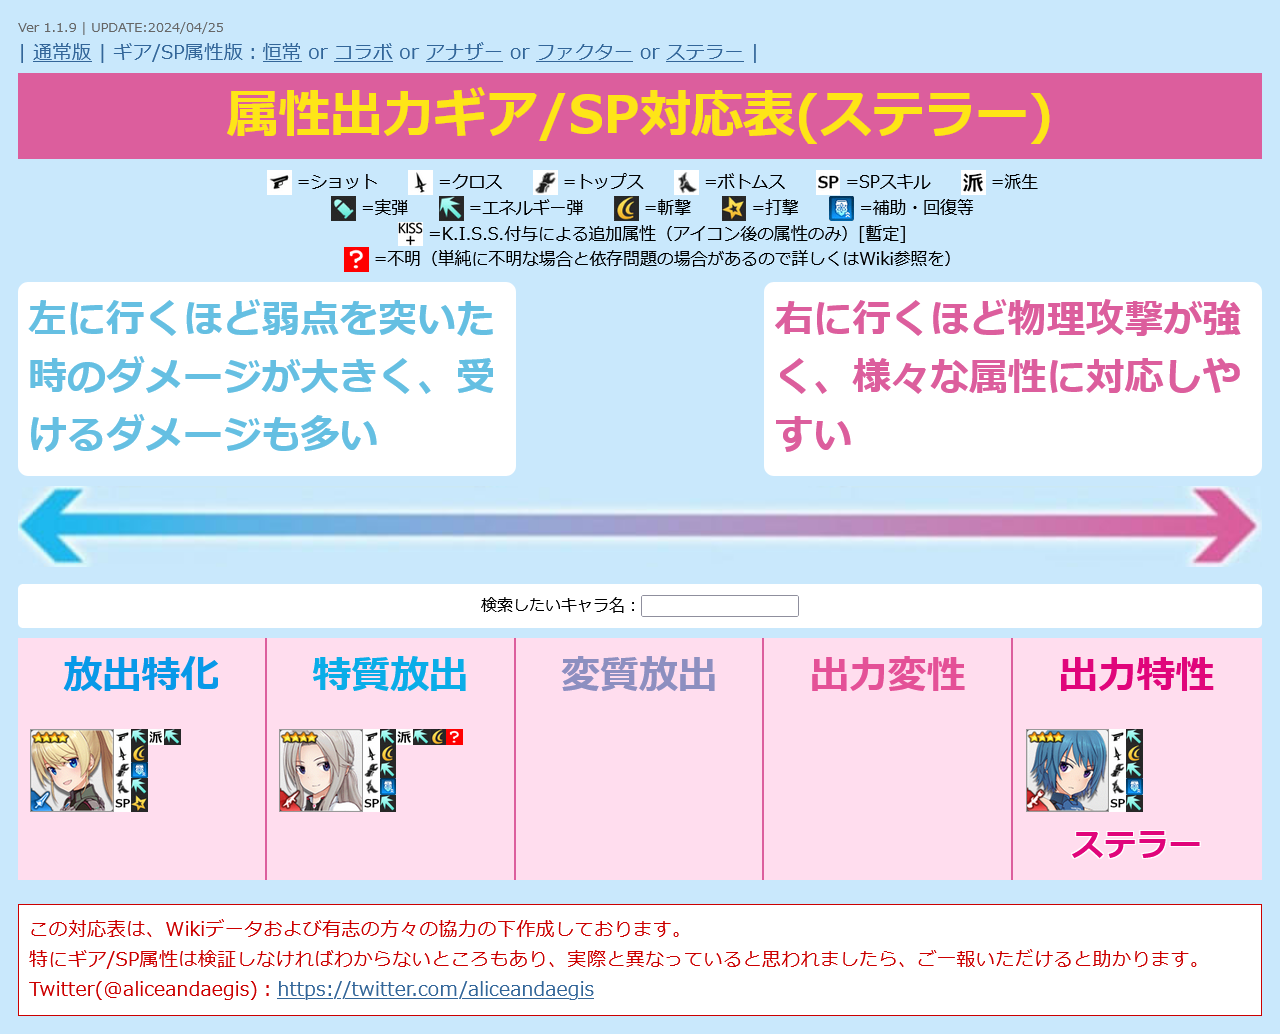
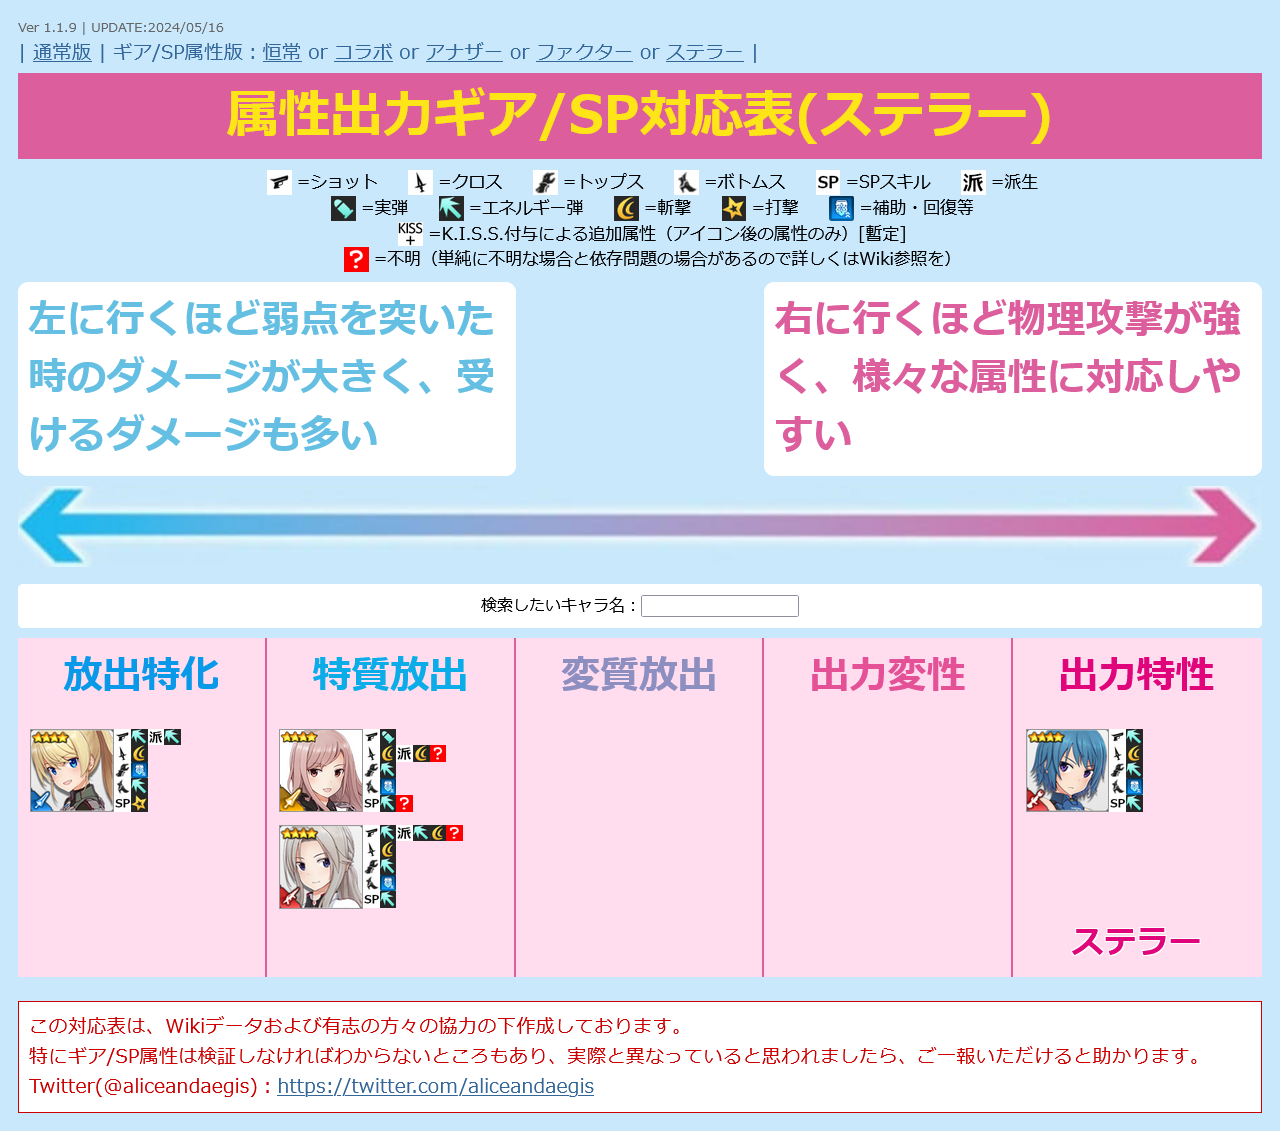
UPDATE charadata
・ステラー 四谷 ゆみ / ムーンを追加

diff --git a/alice.html b/alice.html
@@ -12,7 +12,7 @@
   <script>
 
 /* 更新情報 必要に応じて書き換えてください */
-  var version = "Ver 1.1.9 | UPDATE:2024/04/25";
+  var version = "Ver 1.1.9 | UPDATE:2024/05/16";
 
 
 /*
@@ -428,6 +428,20 @@
       "attr": "2",
       "link": "https://wikiwiki.jp/alicegear/%E5%9B%9B%E8%B0%B7%E3%82%86%E3%81%BF%E7%B5%A2%E7%88%9B",
       "category": "10"
+    },
+    {
+      "id": "9",
+      "type": "2",
+      "src": "stellar-yumi.png",
+      "name": "四谷 ゆみ / ムーン",
+      "equip1": "1",
+      "equip2": "3/3?",
+      "equip3": "2",
+      "equip4": "5",
+      "sp": "2?",
+      "attr": "1",
+      "link": "https://wikiwiki.jp/alicegear/%E5%9B%9B%E8%B0%B7%E3%82%86%E3%81%BF/%E3%83%A0%E3%83%BC%E3%83%B3",
+      "category": "12"
     },
     {
       "id": "10",
@@ -2778,9 +2792,9 @@
       "name": "C.C.",
       "equip1": "1",
       "equip2": "3",
-      "equip3": "25?",
-      "equip4": "?",
-      "sp": "2?",
+      "equip3": "25",
+      "equip4": "5",
+      "sp": "2",
       "attr": "2",
       "link": "https://wikiwiki.jp/alicegear/C.C.",
       "category": "99"
@@ -2792,9 +2806,9 @@
       "name": "紅月 カレン",
       "equip1": "1",
       "equip2": "3",
-      "equip3": "25?",
+      "equip3": "3",
       "equip4": "5",
-      "sp": "?",
+      "sp": "3",
       "attr": "3",
       "link": "https://wikiwiki.jp/alicegear/%E7%B4%85%E6%9C%88%E3%82%AB%E3%83%AC%E3%83%B3",
       "category": "99"
